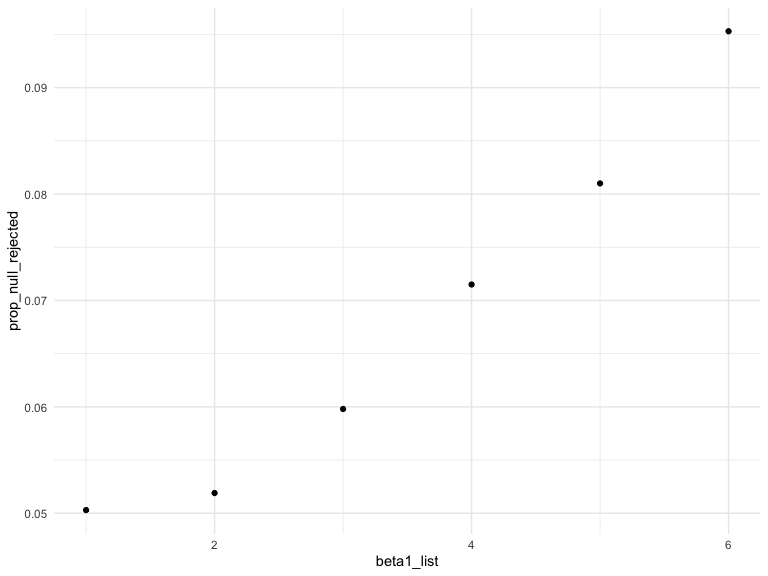
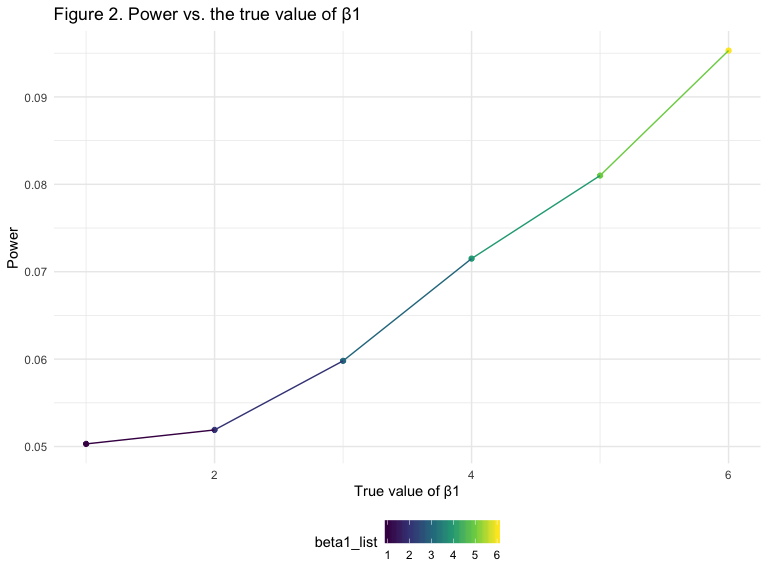
added titles and axes labels to figures; added lines to plots for problem 3

diff --git a/p8105_hw5_lk2761.md b/p8105_hw5_lk2761.md
@@ -168,11 +168,17 @@ value of β1.
 ``` r
 power_df %>%
   filter(null_rejected == "TRUE") %>%
-  ggplot(aes(x = beta1_list, y = prop_null_rejected)) +
-  geom_point()
+  ggplot(aes(x = beta1_list, y = prop_null_rejected, color = beta1_list)) +
+  geom_point() +
+  geom_line() +
+  labs(title = "Figure 2. Power vs. the true value of β1",
+       x = "True value of β1",
+       y = "Power") 
 ```
 
 <img src="p8105_hw5_lk2761_files/figure-gfm/unnamed-chunk-11-1.png" width="90%" />
+
+Based on the plot, as the effect size increases, power increases.
 
 The following code chunk generates a plot that compares the average
 estimate of β̂1 versus the true value of β1.
@@ -182,7 +188,11 @@ sim_results2 %>%
   group_by(beta1_list) %>%
   mutate(avg_beta1_hat = mean(estimate)) %>%
   ggplot(aes(x = beta1_list, y = avg_beta1_hat, color = beta1_list)) +
-  geom_point()
+  geom_point() +
+  geom_line() + 
+  labs(title = "Figure 3. Average estimate of β̂1 vs. true value of β1",
+       x = "True value of β1",
+       y = "Average estimate of β̂1") 
 ```
 
 <img src="p8105_hw5_lk2761_files/figure-gfm/unnamed-chunk-12-1.png" width="90%" />
@@ -197,7 +207,14 @@ sim_results2 %>%
   filter(p.value <= 0.05) %>%
   mutate(avg_beta1_hat2 = mean(estimate)) %>%
   ggplot(aes(x = beta1_list, y = avg_beta1_hat2, color = beta1_list)) +
-  geom_point()
+  geom_point() +
+  geom_line() +
+  labs(title = "Figure 4. Average estimate of β̂1 vs. true value of β1 among samples with null rejected ",
+       x = "True value of β1",
+       y = "Average estimate of β̂1")
 ```
 
 <img src="p8105_hw5_lk2761_files/figure-gfm/unnamed-chunk-13-1.png" width="90%" />
+
+Based on the plot, the sample average of β̂1 across tests for which the
+null is rejected is not approximately equal to the true value of β1.
